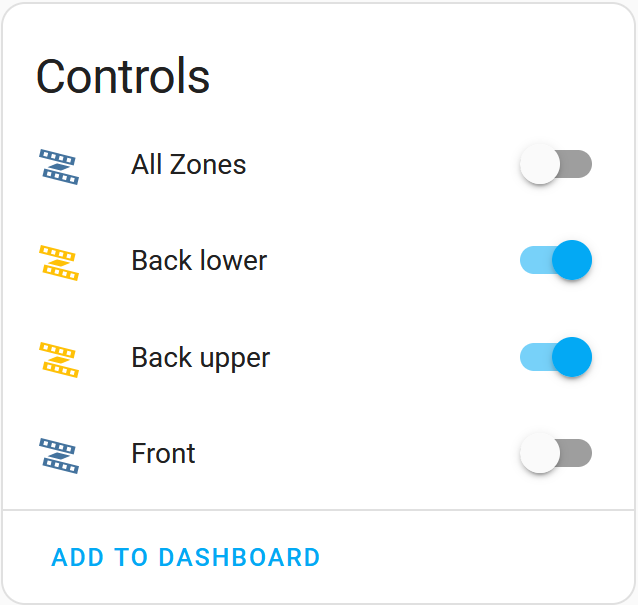
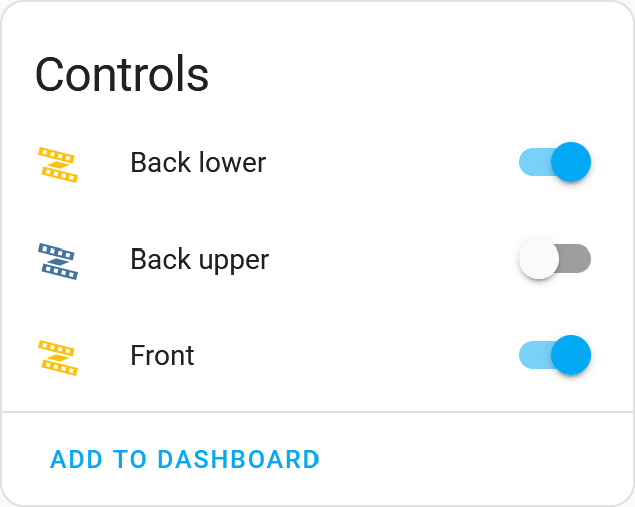
Update readme with functional changes in v1.0.1

diff --git a/README.md b/README.md
@@ -8,7 +8,7 @@
 [![Community Forum][forum-badge]][forum]
 [![BuyMeCoffee][buymecoffee-badge]][buymecoffee]
 
-This component is designed to integrate with [JellyFish Lighting][jellyfish-lighting] installations. It currently supports turning lights on & off and playing pre-saved patterns. If your installation includes more than one zone you can control each zone individually **or** all zones at once through a dedicated "All Zones" light entity.
+This component is designed to integrate with [JellyFish Lighting][jellyfish-lighting] installations. It currently supports turning lights on & off and playing pre-saved patterns. If your installation includes more than one zone you can control each zone individually.
 
 | Light Entities for Mulitple Zones | Playing a Pre-Saved Pattern |
 | :-------------------------------: | :-------------------------: |

diff --git a/info.md b/info.md
@@ -8,7 +8,7 @@
 [![Community Forum][forum-badge]][forum]
 [![BuyMeCoffee][buymecoffee-badge]][buymecoffee]
 
-This component is designed to integrate with [JellyFish Lighting][jellyfish-lighting] installations. It currently supports turning lights on & off and playing pre-saved patterns. If your installation includes more than one zone you can control each zone individually **or** all zones at once through a dedicated "All Zones" light entity.
+This component is designed to integrate with [JellyFish Lighting][jellyfish-lighting] installations. It currently supports turning lights on & off and playing pre-saved patterns. If your installation includes more than one zone you can control each zone individually.
 
 <div style="display:flex">
     <div style="margin-right:20px">
